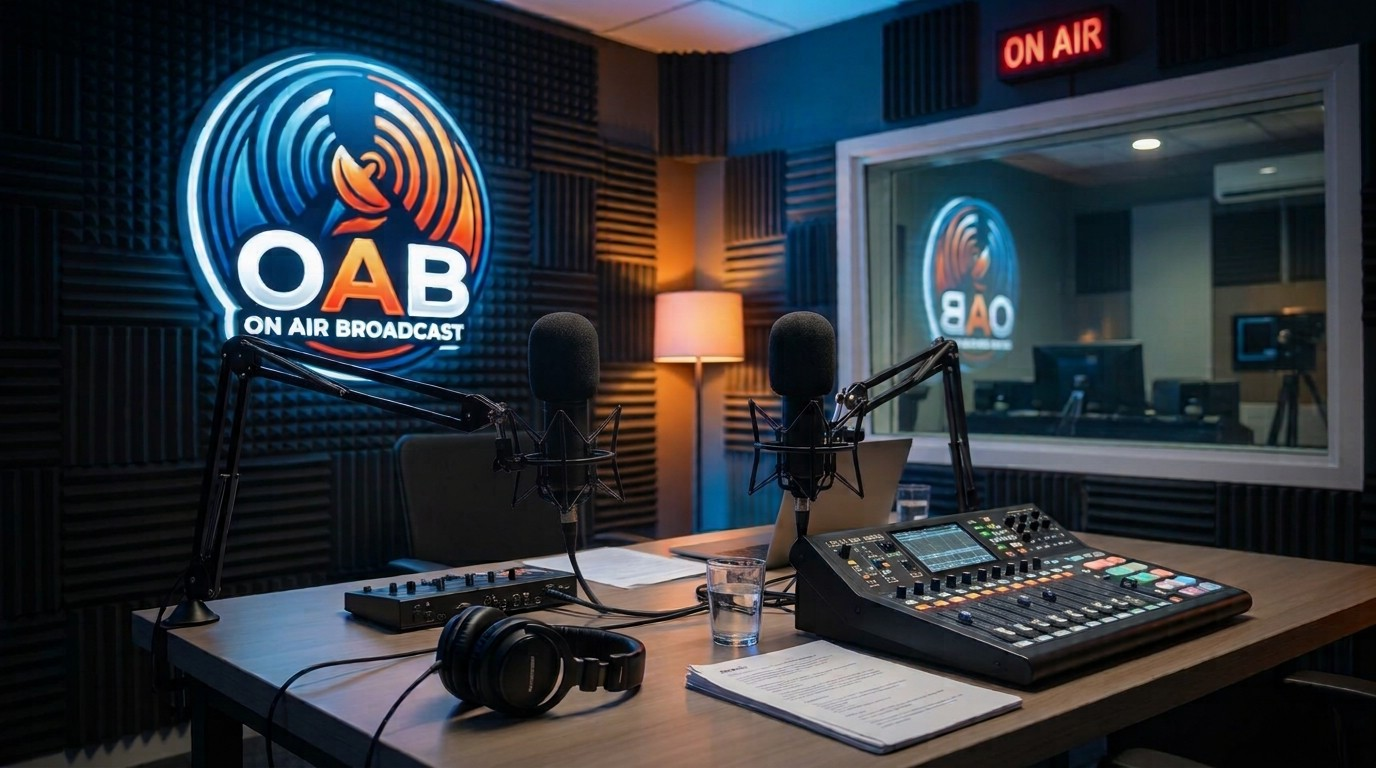
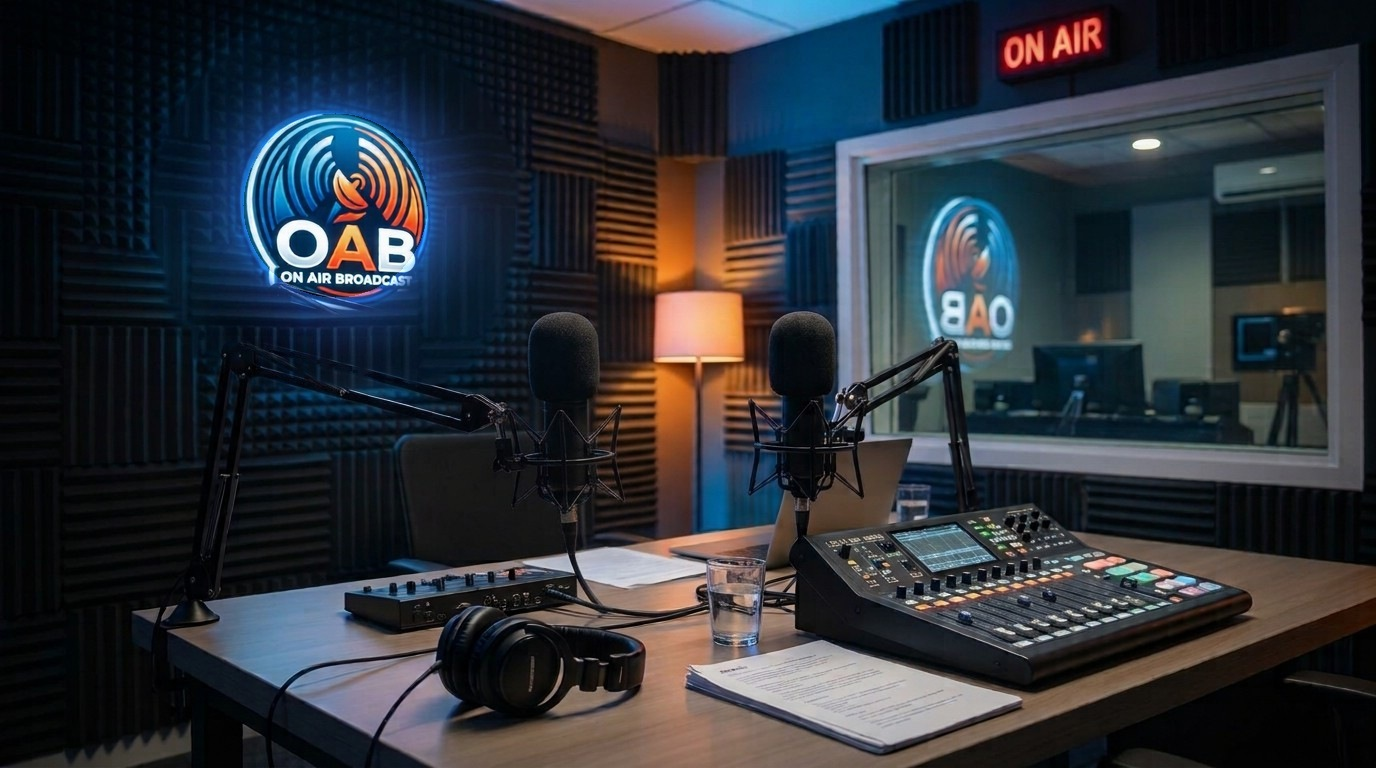
1.0.2: OAB sign in the studio background 40% smaller (wall refilled), flicker layer follows it
Claude-Session: https://claude.ai/code/session_01VBCcQcNaHvR41ZgPvePkGw

Changed region(s): [[0.0938, 0.0312, 0.375, 0.5]]

diff --git a/server/web/studio.html b/server/web/studio.html
@@ -368,9 +368,9 @@ html.light body{background:var(--bg);color:var(--txt)}html.light .tgl b{backgrou
 html.glass{--vw:calc(1vw / var(--uiz,1));--vh:calc(1vh / var(--uiz,1));background:#06080C;--gw:max(calc(100 * var(--vw)),calc(calc(100 * var(--vh)) * 1.791667));--gs:calc(var(--gw) / 1376)}
 html.glass body{display:grid;grid-template-columns:minmax(0,1fr) auto;grid-template-rows:auto minmax(0,1fr) auto auto auto;grid-template-areas:"tool tool" "stage main" "np np" "dock dock" "st st";background:transparent}
 #glassBg,#glassNeon,#glassSign{display:none}
-html.glass #glassBg{display:block;position:fixed;left:0;top:0;width:calc(100 * var(--vw));height:calc(100 * var(--vh));z-index:-1;pointer-events:none;background:linear-gradient(180deg,rgba(6,8,12,.5) 0%,rgba(6,8,12,0) 12%,rgba(6,8,12,0) 52%,rgba(6,8,12,.55) 74%,rgba(6,8,12,.92) 100%),url(/studio-bg.jpg) 50% 50%/var(--gw) auto no-repeat}
+html.glass #glassBg{display:block;position:fixed;left:0;top:0;width:calc(100 * var(--vw));height:calc(100 * var(--vh));z-index:-1;pointer-events:none;background:linear-gradient(180deg,rgba(6,8,12,.5) 0%,rgba(6,8,12,0) 12%,rgba(6,8,12,0) 52%,rgba(6,8,12,.55) 74%,rgba(6,8,12,.92) 100%),url(/studio-bg.jpg?v=2) 50% 50%/var(--gw) auto no-repeat}
 /* OAB neon sign: a brightened copy of the sign that flickers every few seconds */
-html.glass #glassNeon{display:block;position:fixed;z-index:-1;pointer-events:none;left:calc(calc(50 * var(--vw)) - 523 * var(--gs));top:calc(calc(50 * var(--vh)) - 354 * var(--gs));width:calc(340 * var(--gs));height:calc(340 * var(--gs));background:url(/studio-bg.jpg) calc(-165 * var(--gs)) calc(-30 * var(--gs))/var(--gw) auto no-repeat;filter:brightness(1.55) saturate(1.35);-webkit-mask:radial-gradient(circle,#000 47%,transparent 63%);mask:radial-gradient(circle,#000 47%,transparent 63%);animation:neonFlicker 7s linear infinite}
+html.glass #glassNeon{display:block;position:fixed;z-index:-1;pointer-events:none;left:calc(calc(50 * var(--vw)) - 455 * var(--gs));top:calc(calc(50 * var(--vh)) - 281 * var(--gs));width:calc(204 * var(--gs));height:calc(204 * var(--gs));background:url(/studio-bg.jpg?v=2) calc(-233 * var(--gs)) calc(-103 * var(--gs))/var(--gw) auto no-repeat;filter:brightness(1.55) saturate(1.35);-webkit-mask:radial-gradient(circle,#000 47%,transparent 63%);mask:radial-gradient(circle,#000 47%,transparent 63%);animation:neonFlicker 7s linear infinite}
 @keyframes neonFlicker{0%,84%{opacity:.7}85%{opacity:.05}86%{opacity:.6}87%{opacity:0}88.5%{opacity:.65}90%{opacity:.15}91.5%{opacity:.7}100%{opacity:.7}}
 html.glass #glassNeon::after{content:"";position:absolute;inset:0;background:radial-gradient(circle,rgba(0,0,0,.55),transparent 70%);opacity:0;animation:neonShade 7s linear infinite}
 @keyframes neonShade{0%,84%{opacity:0}85%{opacity:1}86%{opacity:.1}87%{opacity:1}88.5%{opacity:0}90%{opacity:.8}91.5%,100%{opacity:0}}
@@ -715,7 +715,7 @@ html.glass.toolHidden .main{padding-top:24px}
 </aside>
 </div>
 
-<div class="status"><span id="fSrv">Server –</span><span id="stPl"></span><span>Limiter −1 dB</span><span id="stXf"></span><span style="margin-left:auto">OAB Studio 1.0.1</span><span style="letter-spacing:1.5px">AD SOUND &amp; SERVICE</span></div>
+<div class="status"><span id="fSrv">Server –</span><span id="stPl"></span><span>Limiter −1 dB</span><span id="stXf"></span><span style="margin-left:auto">OAB Studio 1.0.2</span><span style="letter-spacing:1.5px">AD SOUND &amp; SERVICE</span></div>
 
 <div class="cs" id="chStrip" hidden role="dialog" aria-label="Microphone channel strip">
 <header class="csHead"><span class="csIcon"><svg width="18" height="18" viewBox="0 0 24 24" fill="none" stroke="currentColor" stroke-width="2" stroke-linecap="round" aria-hidden="true"><rect x="9" y="2.5" width="6" height="11.5" rx="3"/><path d="M5.5 11a6.5 6.5 0 0 0 13 0M12 17.5V21"/></svg></span>
@@ -1850,7 +1850,7 @@ const ACT = {
   options: () => openOptions(), lightSettings: async () => { await openOptions(); const q = $('#optLight'); if (q) q.scrollIntoView({ block: 'start' }); }, hotSettings: async () => { await openOptions(); const q = $('#optHot'); if (q) q.scrollIntoView({ block: 'start' }); }, streamQual: async () => { await openOptions(); const q = $('#sQual'); if (q) { q.scrollIntoView({ block: 'center' }); q.focus(); } }, crossfades: () => { renderFt(); openModal('mXf'); },
   hotkeys: () => { $('#miH').textContent = 'Hot keys'; $('#miBody').innerHTML = [['Space / Shift+Space', 'MIC 1 / MIC 2 (both when linked)'], ['Enter', 'Play selected'], ['Ctrl+E', 'Start / stop broadcasting'], ['1 … 0', 'Cart wall cells 1–10'], ['−', 'Stop all jingles'], ['Insert', 'Insert last library song after the playing track'], ['Num −', 'Add last library song to the end'], ['Delete', 'Remove selected'], ['Ctrl+↑ / Ctrl+↓', 'Move selected'], ['Ctrl+A / C / X / V', 'Select all / copy / cut / paste'], ['Ctrl+, / Ctrl+.', 'Seek −10 s / +10 s'], ['Ctrl+N / O / S / F / P', 'New / open / save / find / options'], ['Alt+click', 'Prelisten']].map(r => `<div style="display:flex;gap:12px"><span class="mono" style="min-width:170px;color:#8CC2FF">${r[0]}</span><span>${r[1]}</span></div>`).join(''); openModal('mInfo'); },
   help: () => { $('#miH').textContent = 'Guide'; $('#miBody').innerHTML = 'The full Hebrew guide is in <b>README-HE.txt</b> in the Radio folder.'; openModal('mInfo'); },
-  about: () => { $('#miH').textContent = 'OAB Studio 1.0.1'; $('#miBody').innerHTML = '<img src="/oab-logo.png" alt="" style="width:96px;height:96px;display:block;margin:0 auto 8px">OAB – On Air Broadcast · radio automation studio · version 1.0.1<br>Playlist engine, scheduler, generator, ads scheduler, voice tracking, announcements, reports, DSP, AUX players.<br>AD SOUND &amp; SERVICE'; openModal('mInfo'); },
+  about: () => { $('#miH').textContent = 'OAB Studio 1.0.2'; $('#miBody').innerHTML = '<img src="/oab-logo.png" alt="" style="width:96px;height:96px;display:block;margin:0 auto 8px">OAB – On Air Broadcast · radio automation studio · version 1.0.2<br>Playlist engine, scheduler, generator, ads scheduler, voice tracking, announcements, reports, DSP, AUX players.<br>AD SOUND &amp; SERVICE'; openModal('mInfo'); },
 };
 function doAct(a){ $$('.menubar .m').forEach(m => m.classList.remove('open')); if (ACT[a]) ACT[a](); }
 document.addEventListener('click', e => { const a = e.target.closest('[data-a]'); if (a && (a.closest('.dd') || a.closest('.tool') || a.closest('.transport'))) doAct(a.dataset.a); });

diff --git a/server/web/studio.tpl.html b/server/web/studio.tpl.html
@@ -368,9 +368,9 @@ html.light body{background:var(--bg);color:var(--txt)}html.light .tgl b{backgrou
 html.glass{--vw:calc(1vw / var(--uiz,1));--vh:calc(1vh / var(--uiz,1));background:#06080C;--gw:max(calc(100 * var(--vw)),calc(calc(100 * var(--vh)) * 1.791667));--gs:calc(var(--gw) / 1376)}
 html.glass body{display:grid;grid-template-columns:minmax(0,1fr) auto;grid-template-rows:auto minmax(0,1fr) auto auto auto;grid-template-areas:"tool tool" "stage main" "np np" "dock dock" "st st";background:transparent}
 #glassBg,#glassNeon,#glassSign{display:none}
-html.glass #glassBg{display:block;position:fixed;left:0;top:0;width:calc(100 * var(--vw));height:calc(100 * var(--vh));z-index:-1;pointer-events:none;background:linear-gradient(180deg,rgba(6,8,12,.5) 0%,rgba(6,8,12,0) 12%,rgba(6,8,12,0) 52%,rgba(6,8,12,.55) 74%,rgba(6,8,12,.92) 100%),url(/studio-bg.jpg) 50% 50%/var(--gw) auto no-repeat}
+html.glass #glassBg{display:block;position:fixed;left:0;top:0;width:calc(100 * var(--vw));height:calc(100 * var(--vh));z-index:-1;pointer-events:none;background:linear-gradient(180deg,rgba(6,8,12,.5) 0%,rgba(6,8,12,0) 12%,rgba(6,8,12,0) 52%,rgba(6,8,12,.55) 74%,rgba(6,8,12,.92) 100%),url(/studio-bg.jpg?v=2) 50% 50%/var(--gw) auto no-repeat}
 /* OAB neon sign: a brightened copy of the sign that flickers every few seconds */
-html.glass #glassNeon{display:block;position:fixed;z-index:-1;pointer-events:none;left:calc(calc(50 * var(--vw)) - 523 * var(--gs));top:calc(calc(50 * var(--vh)) - 354 * var(--gs));width:calc(340 * var(--gs));height:calc(340 * var(--gs));background:url(/studio-bg.jpg) calc(-165 * var(--gs)) calc(-30 * var(--gs))/var(--gw) auto no-repeat;filter:brightness(1.55) saturate(1.35);-webkit-mask:radial-gradient(circle,#000 47%,transparent 63%);mask:radial-gradient(circle,#000 47%,transparent 63%);animation:neonFlicker 7s linear infinite}
+html.glass #glassNeon{display:block;position:fixed;z-index:-1;pointer-events:none;left:calc(calc(50 * var(--vw)) - 455 * var(--gs));top:calc(calc(50 * var(--vh)) - 281 * var(--gs));width:calc(204 * var(--gs));height:calc(204 * var(--gs));background:url(/studio-bg.jpg?v=2) calc(-233 * var(--gs)) calc(-103 * var(--gs))/var(--gw) auto no-repeat;filter:brightness(1.55) saturate(1.35);-webkit-mask:radial-gradient(circle,#000 47%,transparent 63%);mask:radial-gradient(circle,#000 47%,transparent 63%);animation:neonFlicker 7s linear infinite}
 @keyframes neonFlicker{0%,84%{opacity:.7}85%{opacity:.05}86%{opacity:.6}87%{opacity:0}88.5%{opacity:.65}90%{opacity:.15}91.5%{opacity:.7}100%{opacity:.7}}
 html.glass #glassNeon::after{content:"";position:absolute;inset:0;background:radial-gradient(circle,rgba(0,0,0,.55),transparent 70%);opacity:0;animation:neonShade 7s linear infinite}
 @keyframes neonShade{0%,84%{opacity:0}85%{opacity:1}86%{opacity:.1}87%{opacity:1}88.5%{opacity:0}90%{opacity:.8}91.5%,100%{opacity:0}}
@@ -715,7 +715,7 @@ html.glass.toolHidden .main{padding-top:24px}
 </aside>
 </div>
 
-<div class="status"><span id="fSrv">Server –</span><span id="stPl"></span><span>Limiter −1 dB</span><span id="stXf"></span><span style="margin-left:auto">OAB Studio 1.0.1</span><span style="letter-spacing:1.5px">AD SOUND &amp; SERVICE</span></div>
+<div class="status"><span id="fSrv">Server –</span><span id="stPl"></span><span>Limiter −1 dB</span><span id="stXf"></span><span style="margin-left:auto">OAB Studio 1.0.2</span><span style="letter-spacing:1.5px">AD SOUND &amp; SERVICE</span></div>
 
 <div class="cs" id="chStrip" hidden role="dialog" aria-label="Microphone channel strip">
 <header class="csHead"><span class="csIcon"><svg width="18" height="18" viewBox="0 0 24 24" fill="none" stroke="currentColor" stroke-width="2" stroke-linecap="round" aria-hidden="true"><rect x="9" y="2.5" width="6" height="11.5" rx="3"/><path d="M5.5 11a6.5 6.5 0 0 0 13 0M12 17.5V21"/></svg></span>

diff --git a/server/web/core.js b/server/web/core.js
@@ -846,7 +846,7 @@ const ACT = {
   options: () => openOptions(), lightSettings: async () => { await openOptions(); const q = $('#optLight'); if (q) q.scrollIntoView({ block: 'start' }); }, hotSettings: async () => { await openOptions(); const q = $('#optHot'); if (q) q.scrollIntoView({ block: 'start' }); }, streamQual: async () => { await openOptions(); const q = $('#sQual'); if (q) { q.scrollIntoView({ block: 'center' }); q.focus(); } }, crossfades: () => { renderFt(); openModal('mXf'); },
   hotkeys: () => { $('#miH').textContent = 'Hot keys'; $('#miBody').innerHTML = [['Space / Shift+Space', 'MIC 1 / MIC 2 (both when linked)'], ['Enter', 'Play selected'], ['Ctrl+E', 'Start / stop broadcasting'], ['1 … 0', 'Cart wall cells 1–10'], ['−', 'Stop all jingles'], ['Insert', 'Insert last library song after the playing track'], ['Num −', 'Add last library song to the end'], ['Delete', 'Remove selected'], ['Ctrl+↑ / Ctrl+↓', 'Move selected'], ['Ctrl+A / C / X / V', 'Select all / copy / cut / paste'], ['Ctrl+, / Ctrl+.', 'Seek −10 s / +10 s'], ['Ctrl+N / O / S / F / P', 'New / open / save / find / options'], ['Alt+click', 'Prelisten']].map(r => `<div style="display:flex;gap:12px"><span class="mono" style="min-width:170px;color:#8CC2FF">${r[0]}</span><span>${r[1]}</span></div>`).join(''); openModal('mInfo'); },
   help: () => { $('#miH').textContent = 'Guide'; $('#miBody').innerHTML = 'The full Hebrew guide is in <b>README-HE.txt</b> in the Radio folder.'; openModal('mInfo'); },
-  about: () => { $('#miH').textContent = 'OAB Studio 1.0.1'; $('#miBody').innerHTML = '<img src="/oab-logo.png" alt="" style="width:96px;height:96px;display:block;margin:0 auto 8px">OAB – On Air Broadcast · radio automation studio · version 1.0.1<br>Playlist engine, scheduler, generator, ads scheduler, voice tracking, announcements, reports, DSP, AUX players.<br>AD SOUND &amp; SERVICE'; openModal('mInfo'); },
+  about: () => { $('#miH').textContent = 'OAB Studio 1.0.2'; $('#miBody').innerHTML = '<img src="/oab-logo.png" alt="" style="width:96px;height:96px;display:block;margin:0 auto 8px">OAB – On Air Broadcast · radio automation studio · version 1.0.2<br>Playlist engine, scheduler, generator, ads scheduler, voice tracking, announcements, reports, DSP, AUX players.<br>AD SOUND &amp; SERVICE'; openModal('mInfo'); },
 };
 function doAct(a){ $$('.menubar .m').forEach(m => m.classList.remove('open')); if (ACT[a]) ACT[a](); }
 document.addEventListener('click', e => { const a = e.target.closest('[data-a]'); if (a && (a.closest('.dd') || a.closest('.tool') || a.closest('.transport'))) doAct(a.dataset.a); });

diff --git a/server/server.py b/server/server.py
@@ -34,7 +34,7 @@ STATION = os.environ.get("RADIO_NAME", "OAB")
 MAX_LISTENERS = int(os.environ.get("RADIO_MAX_LISTENERS", "0"))  # 0 = no limit
 # ---------------------------------------------------------
 
-VERSION = "1.0.1"
+VERSION = "1.0.2"
 APP_DIR = os.path.dirname(os.path.abspath(__file__))            # program files (code + web)
 BASE = os.environ.get("OAB_DATA") or APP_DIR                       # settings, playlists, recordings, downloaded tools
 os.makedirs(BASE, exist_ok=True)
